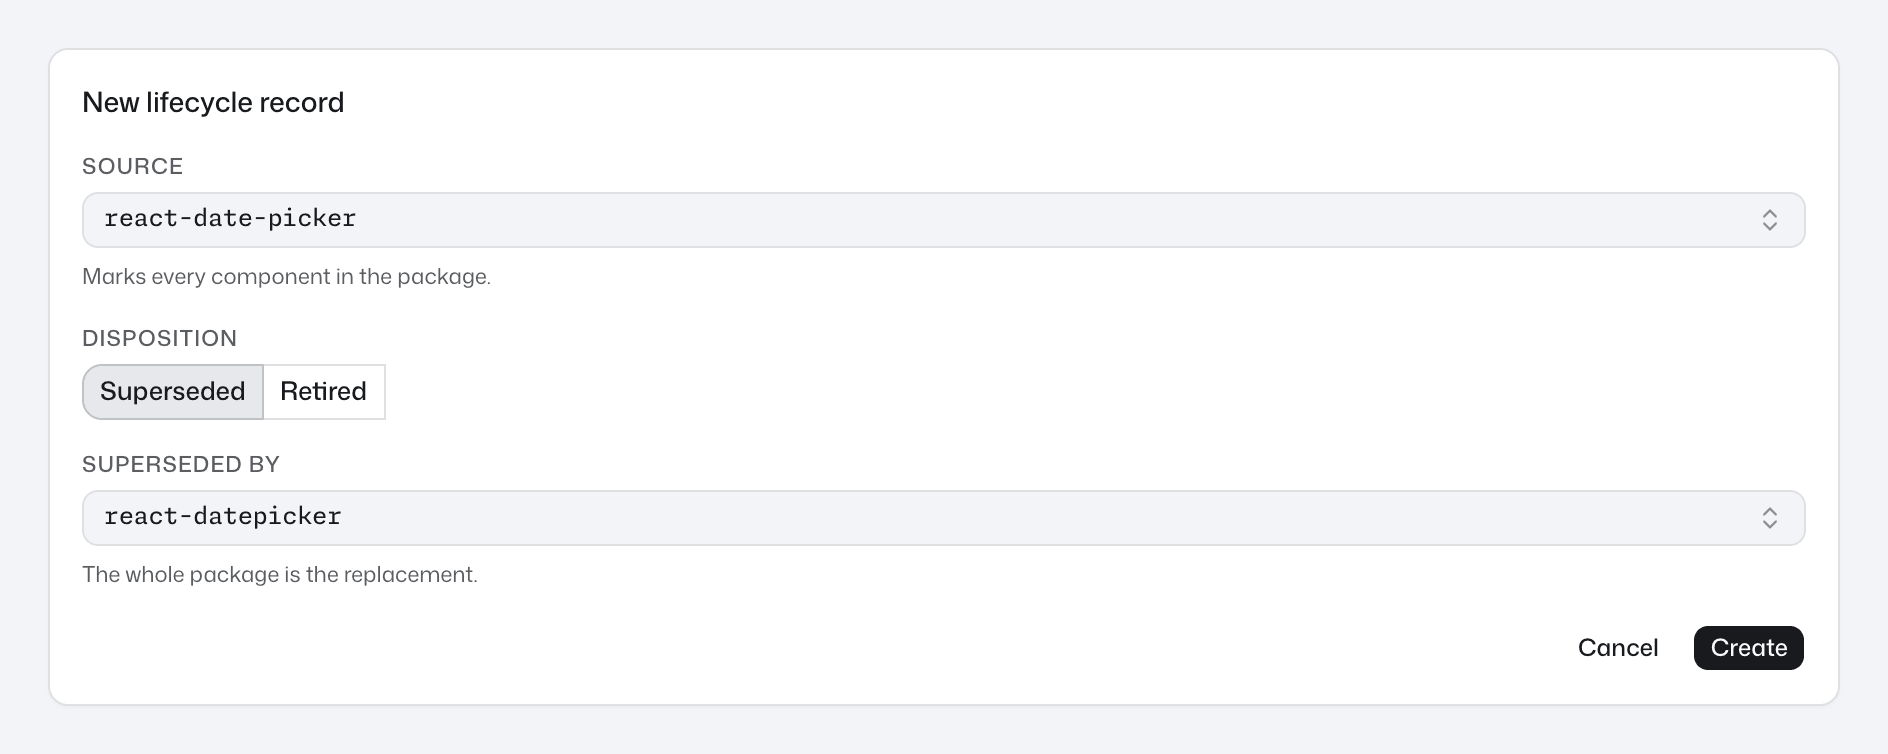
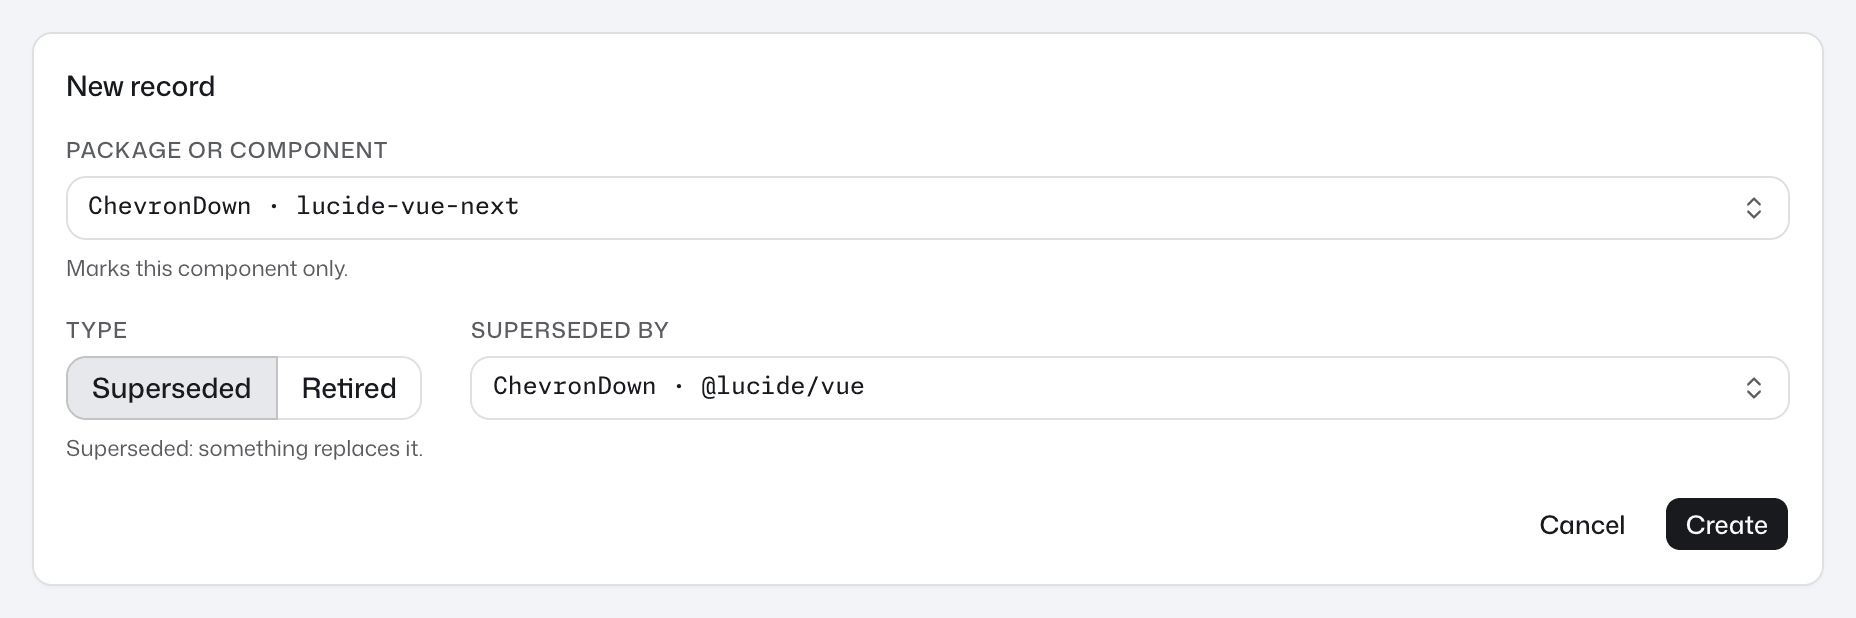
docs: retake the governance page screenshots for the Records and Tags tables

diff --git a/apps/docs/docs/guides/dashboard/track-a-migration.md b/apps/docs/docs/guides/dashboard/track-a-migration.md
@@ -22,7 +22,7 @@ What you add is a [lifecycle record](/docs/reference/glossary#lifecycle-record).
 5. Open **Superseded by** and pick the `Button` row under `@acme/ui`. If you pick the package row instead, the whole of `@acme/ui` counts as the replacement.
 6. Press **Create**.
 
-![The New record form with react-date-picker as the source, Superseded selected, and react-datepicker as the replacement](/img/dashboard/governance-record-form.png)
+![The New record form with ChevronDown from lucide-vue-next as the source, Superseded selected, and ChevronDown from @lucide/vue as the replacement](/img/dashboard/governance-record-form.png)
 
 The pickers only offer packages and components that appear in uploaded scans. If `LegacyButton` is missing, upload a scan of a repo that uses it first. Components [defined in the repo](/docs/reference/glossary#defined-in-the-repo) are never offered.
 
@@ -55,7 +55,7 @@ The **governance** page lists every record in one **Records** table, grouped by 
 
 Packages with the most occurrences left come first, and so do the records inside each package.
 
-![The governance page listing lifecycle records, each with its replacement or reason and its status](/img/dashboard/governance-records.png)
+![The governance page's Records table: element-plus's component records under a row with the package's total, then whole-package records, each with its replacement or reason and its occurrences left, most first](/img/dashboard/governance-records.png)
 
 ## Follow progress
 

diff --git a/apps/docs/docs/guides/dashboard/tag-your-libraries.md b/apps/docs/docs/guides/dashboard/tag-your-libraries.md
@@ -29,7 +29,7 @@ Repeat for `acme-ui-legacy` with `@acme/ui-legacy` in **Packages**.
 
 A tag with six or more entries in **Packages** lists four of them in the table, then a **+N more** button that shows the rest.
 
-![The Tags section of the governance page, with the tag form open for a radix tag with the pattern @radix-ui/* and six tags listed below](/img/dashboard/governance-tags.png)
+![The Tags section of the governance page, with the tag form open for a form-libs tag that matches three packages, and seven tags listed below](/img/dashboard/governance-tags.png)
 
 To change a tag later, press **Edit** (the pencil) on its row. The form opens in place of the row; change it and press **Save**. **Delete** in the same form asks before it removes the tag. Every chart that uses the tag then loses its line.
 
